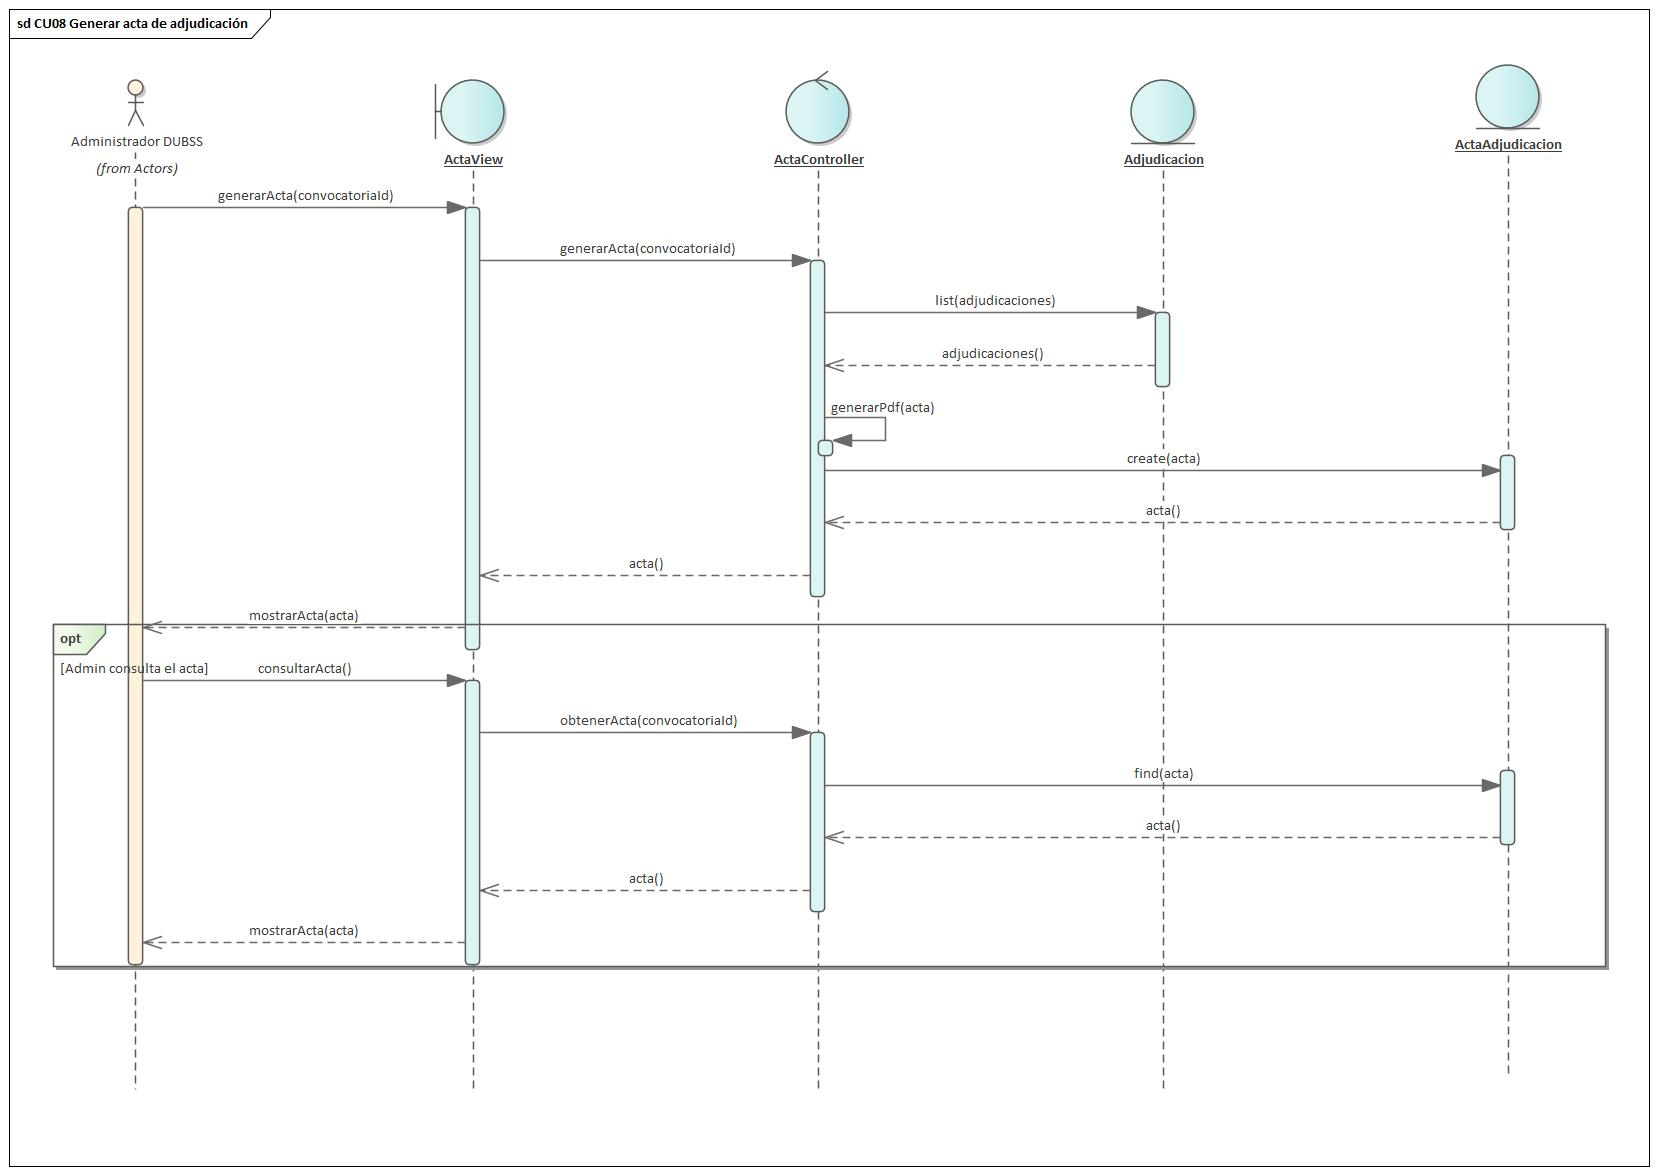
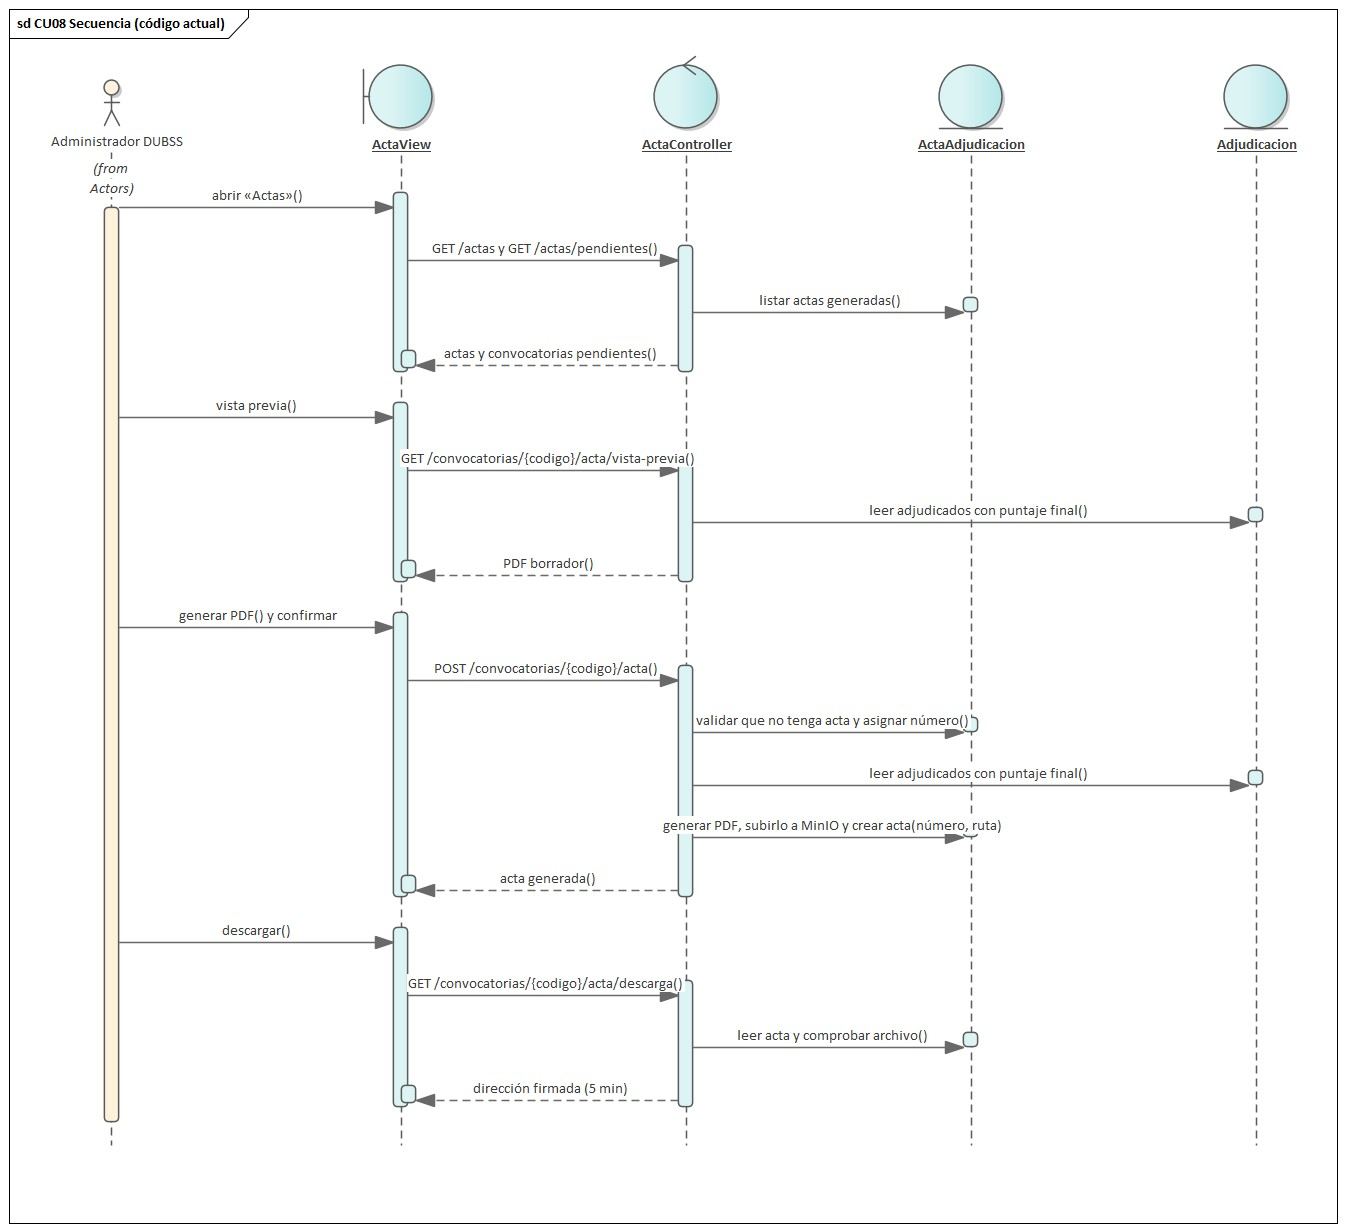
docs[DOCS]: Alinear CU08 y CU22 con el código (acta después de publicar, códigos ERR_ACT y ERR_PUB, análisis y secuencia regenerados)

diff --git a/secciones/07_capitulo5_requisitos/04_detalle_casos_uso.tex b/secciones/07_capitulo5_requisitos/04_detalle_casos_uso.tex
@@ -413,7 +413,7 @@
     \item A2 (paso 7): si el finalista no tiene ninguna auditoría, el sistema no permite ninguna decisión (409, ERR\_ADJ\_02); si la última auditoría no es «validado», no permite adjudicarle la beca (409, ERR\_ADJ\_02) pero sí no adjudicar.
     \item A3 (paso 7): si el puntaje total de la postulación (IA más académico de la última auditoría) no alcanza el puntaje mínimo requerido, el sistema no permite adjudicarle la beca (409, ERR\_ADJ\_03).
     \item A4 (paso 7): si los cupos de la convocatoria están agotados, el sistema no permite registrar nuevas adjudicaciones (409, ERR\_ADJ\_04) y solo admite la decisión de no adjudicar.
-    \item A5 (paso 10): una vez decididas todas las adjudicaciones, el Administrador DUBSS puede generar el acta de adjudicación (CU-08) y publicar los resultados (CU-22).
+    \item A5 (paso 10): una vez decididas todas las adjudicaciones, el Administrador DUBSS puede publicar los resultados (CU-22) y, una vez publicados, generar el acta de adjudicación (CU-08).
     \item A6 (paso 7): si los resultados de la convocatoria ya fueron publicados (CU-22) o la postulación ya no está «calificada», el sistema no registra ni modifica decisiones (409, ERR\_ADJ\_01).
     \item A7 (paso 8): si la petición llega duplicada (doble clic o reintento), solo se registra una decisión; la segunda recibe el 409 ERR\_ADJ\_01, sin clave de idempotencia.
     \item A8 (pasos 1 y 7): si la convocatoria no está cerrada o no tiene cupos o puntaje mínimo definidos, el sistema no permite seleccionar finalistas ni decidir (409, ERR\_ADJ\_05).
@@ -628,7 +628,7 @@
 \endlastfoot
 \textbf{Propósito} & Generar el acta oficial que deja constancia de los resultados de la adjudicación de la Beca Comedor de una convocatoria. \\
 \midrule
-\textbf{Descripción} & Este caso de uso describe cómo el Administrador DUBSS genera, una vez decididas todas las adjudicaciones de una convocatoria, el acta de adjudicación en formato PDF con la lista de beneficiarios aprobados. El acta se almacena en MinIO, se registra con un número único y puede consultarse posteriormente. El formato y el contenido oficial del acta están por definir con la DUBSS. Extiende el CU-05. Respalda el RF-04. \\
+\textbf{Descripción} & Este caso de uso describe cómo el Administrador DUBSS genera, una vez publicados los resultados de una convocatoria (CU-22), el acta de adjudicación en formato PDF con la lista de beneficiarios adjudicados y su puntaje final. Antes de generarla puede ver una vista previa con el número «borrador». El acta se almacena en MinIO, se registra con un número único automático, es definitiva (una sola por convocatoria, no se regenera ni se elimina) y puede consultarse y descargarse después mediante una dirección temporal firmada. El formato y el contenido oficial del acta están por definir con la DUBSS. Extiende el CU-05. Respalda el RF-04. \\
 \midrule
 \textbf{Actores} & Administrador DUBSS. \\
 \midrule
@@ -636,33 +636,36 @@
 \midrule
 \textbf{Precondición} & \vspace{-\baselineskip}\begin{cuvin}
     \item El Administrador DUBSS está autenticado en el sistema (CU-01) con el rol Administrador DUBSS.
-    \item Todas las adjudicaciones de los finalistas de la convocatoria están decididas (CU-05).
+    \item Los resultados de la convocatoria ya fueron publicados (CU-22) y la convocatoria está «publicada».
+    \item Para generar, la convocatoria aún no tiene acta; para consultar o descargar, ya la tiene.
 \end{cuvin} \\
 \midrule
 \textbf{Proceso} & \textbf{Flujo principal A: generar el acta.}
 \begin{cupasos}
-    \item El Administrador DUBSS selecciona la opción «Generar acta de adjudicación» de la convocatoria.
-    \item El sistema verifica que no existan finalistas con la adjudicación pendiente de decisión.
-    \item El sistema obtiene las adjudicaciones de la convocatoria con el nombre, CI, carrera y puntaje final de cada postulante adjudicado.
-    \item El sistema genera el acta en formato PDF con un número único, la fecha, los datos de la convocatoria y de la gestión académica y la lista de adjudicados.
-    \item El sistema almacena el PDF en MinIO y registra el acta con su número, la ruta del archivo, el usuario que la genera y la fecha de generación, y deja constancia en la bitácora.
+    \item El Administrador DUBSS entra a «Actas», elige una convocatoria con resultados publicados y sin acta y, si lo desea, pulsa «Vista previa».
+    \item El Administrador DUBSS pulsa «Generar PDF» y confirma en una ventana que avisa que el acta es definitiva.
+    \item El sistema verifica que la convocatoria exista, que sus resultados estén publicados y que no tenga acta.
+    \item El sistema obtiene los adjudicados de la convocatoria con nombre y apellido, CI, carrera y puntaje final, y asigna el número de acta.
+    \item El sistema genera el PDF con el número, la fecha, los datos de la convocatoria y de la gestión académica y la lista de adjudicados, y lo almacena en MinIO.
+    \item El sistema registra el acta con su número, la ruta del archivo, el usuario que la genera y la fecha de generación, y deja constancia en la bitácora, en una misma operación.
     \item El sistema muestra el acta generada y permite descargarla e imprimirla.
 \end{cupasos} \\
  & \textbf{Flujo principal B: consultar el acta.}
 \begin{cupasos}
-    \item El Administrador DUBSS selecciona la opción «Consultar acta» de la convocatoria.
-    \item El sistema obtiene el acta registrada y la muestra para su descarga e impresión.
+    \item El Administrador DUBSS entra a «Actas» y pulsa «Descargar» en el acta que desea (o elige una convocatoria que ya la tiene).
+    \item El sistema obtiene el acta registrada y comprueba que el archivo esté disponible.
+    \item El sistema anota la descarga en la bitácora y entrega una dirección temporal firmada (vigente 5 minutos) para abrir el PDF.
 \end{cupasos} \\
  & \textbf{Flujos alternativos.}
 \begin{cuvin}
-    \item A1 (flujo A, paso 2): si existen adjudicaciones pendientes de decisión, el sistema no genera el acta e indica cuántas faltan.
-    \item A2 (flujo A, paso 1): si la convocatoria ya tiene un acta generada, el sistema muestra el acta existente en lugar de generar una nueva.
-    \item A3 (flujo A, paso 5): si ocurre un error al almacenar el PDF, el sistema no registra el acta y permite reintentar.
-    \item A4 (flujo B, paso 2): si la convocatoria aún no tiene un acta generada, el sistema lo informa.
+    \item A1 (flujo A, paso 3): si los resultados de la convocatoria no están publicados, el sistema no genera el acta (409, ERR\_ACT\_01) e indica que primero hay que publicarlos (CU-22).
+    \item A2 (flujo A, paso 3): si la convocatoria ya tiene acta, el sistema no genera otra (409, ERR\_ACT\_02) y muestra la existente; un doble clic recibe el mismo 409.
+    \item A3 (flujo A, paso 5): si falla la generación del PDF o el guardado en MinIO, el sistema no registra el acta ni la bitácora y permite reintentar.
+    \item A4 (flujo B, paso 2): si la convocatoria aún no tiene acta, el sistema lo informa (404, ERR\_ACT\_03); si el acta está registrada pero su archivo no está en el almacenamiento, informa que hay que avisar a soporte (404, ERR\_ACT\_04).
 \end{cuvin} \\
 \midrule
 \textbf{Postcondición} & \vspace{-\baselineskip}\begin{cuvin}
-    \item El acta de adjudicación de la convocatoria queda almacenada en MinIO y registrada con su número, responsable y fecha de generación.
+    \item El acta de adjudicación de la convocatoria queda almacenada en MinIO y registrada con su número, responsable y fecha de generación; es definitiva y no se regenera.
     \item La generación del acta queda registrada en la bitácora.
 \end{cuvin} \\
 \midrule
@@ -1773,7 +1776,7 @@
 \endlastfoot
 \textbf{Propósito} & Dar a conocer de forma oficial y transparente los resultados de la adjudicación de la Beca Comedor de una convocatoria y poner fin al proceso de selección. \\
 \midrule
-\textbf{Descripción} & Este caso de uso describe cómo el Administrador DUBSS, una vez decididas todas las adjudicaciones, publica la lista oficial de adjudicados de la convocatoria. Al publicar, el sistema registra la publicación y notifica a cada postulante su resultado mediante notificación push. La lista publicada es consultable por los postulantes y, desde ese momento, las adjudicaciones no se modifican sin dejar registro en la bitácora. Extiende el CU-05. Respalda el RF-17. \\
+\textbf{Descripción} & Este caso de uso describe cómo el Administrador DUBSS, una vez decididas todas las adjudicaciones, publica los resultados de la convocatoria. Al publicar, el sistema registra la publicación, pasa la convocatoria a «publicada», la anota en la bitácora y avisa a cada finalista con decisión su resultado por bandeja, notificación push y correo (CU-EXTRA-01). La publicación no se puede deshacer, no exige el acta (que se genera después, CU-08) y desde ese momento no se registran ni modifican decisiones. Los postulantes consultan la lista de adjudicados y su propio resultado. Extiende el CU-05. Respalda el RF-17. \\
 \midrule
 \textbf{Actores} & Administrador DUBSS. \\
 \midrule
@@ -1781,39 +1784,40 @@
 \midrule
 \textbf{Precondición} & \vspace{-\baselineskip}\begin{cuvin}
     \item El Administrador DUBSS está autenticado en el sistema (CU-01) con el rol Administrador DUBSS.
-    \item Todas las adjudicaciones de los finalistas de la convocatoria están decididas (CU-05).
+    \item La convocatoria está cerrada y ningún finalista queda en estado «calificada»: cada uno está adjudicado, no adjudicado, archivado o devuelto (CU-05).
     \item Los resultados de la convocatoria no han sido publicados previamente.
 \end{cuvin} \\
 \midrule
 \textbf{Proceso} & \textbf{Flujo principal.}
 \begin{cupasos}
-    \item El Administrador DUBSS selecciona la opción «Publicar resultados» de la convocatoria.
-    \item El sistema obtiene y muestra las adjudicaciones de la convocatoria (adjudicados y no adjudicados) con el puntaje final de cada postulante.
-    \item El Administrador DUBSS revisa los resultados y confirma la publicación.
-    \item El sistema verifica que no existan adjudicaciones pendientes de decisión.
-    \item El sistema registra la publicación con el usuario que la realiza y la fecha, y deja constancia en la bitácora.
-    \item El sistema crea una notificación para cada postulante finalista con su resultado y le envía una notificación push.
+    \item El Administrador DUBSS selecciona la opción «Publicar resultados» y elige la convocatoria.
+    \item El sistema muestra el resumen: adjudicados y no adjudicados con el puntaje final de cada finalista.
+    \item El Administrador DUBSS revisa los resultados, pulsa «Publicar» y confirma en una ventana que avisa que la publicación no se puede deshacer.
+    \item El sistema verifica que la convocatoria exista y esté cerrada, que no esté publicada y que no queden finalistas en estado «calificada».
+    \item El sistema registra la publicación con el usuario que la realiza y la fecha, la anota en la bitácora y pasa la convocatoria a «publicada», en una misma operación.
+    \item El sistema crea un aviso para cada finalista con decisión y se lo envía por bandeja, notificación push y correo.
     \item El sistema confirma la publicación; la lista de adjudicados queda consultable por los postulantes (CU-04).
 \end{cupasos} \\
  & \textbf{Flujos alternativos.}
 \begin{cuvin}
-    \item A1 (paso 4): si existen adjudicaciones pendientes de decisión, el sistema no permite publicar e indica cuántas faltan.
-    \item A2 (paso 1): si los resultados de la convocatoria ya fueron publicados, el sistema no permite una nueva publicación y muestra la existente.
-    \item A3 (paso 6): si falla el envío de alguna notificación push, la notificación queda registrada y el postulante puede ver su resultado al consultar su postulación (CU-04).
-    \item A4 (paso 3): si el Administrador DUBSS cancela la operación, no se publica ningún resultado.
+    \item A1 (paso 4): si quedan finalistas en estado «calificada», el sistema no permite publicar e indica cuántos faltan (409, ERR\_PUB\_01).
+    \item A2 (pasos 1 y 4): si los resultados ya fueron publicados, el sistema no registra otra publicación y muestra la existente (409, ERR\_PUB\_02); un doble clic recibe el mismo 409.
+    \item A3 (paso 4): si la convocatoria no existe (404, ERR\_PRI\_01) o no está cerrada (409, ERR\_PUB\_03), el sistema vuelve a la lista de convocatorias.
+    \item A4 (paso 6): si falla el envío de un aviso, la publicación queda registrada, el aviso queda en la bandeja y se reintenta el push y el correo; un fallo de envío nunca deshace la publicación.
+    \item A5 (paso 3): si el Administrador DUBSS cancela la operación, no se publica ningún resultado.
 \end{cuvin} \\
 \midrule
 \textbf{Postcondición} & \vspace{-\baselineskip}\begin{cuvin}
     \item Los resultados de la convocatoria quedan publicados y registrados con su responsable y fecha.
-    \item Cada postulante finalista es notificado de su resultado y los adjudicados conforman el padrón de becados de la gestión (CU-23).
-    \item Las adjudicaciones de la convocatoria no se modifican sin dejar registro en la bitácora (CU-25).
+    \item Cada finalista con decisión recibe un aviso con su resultado; los adjudicados son el punto de partida del padrón de becados (CU-23).
+    \item No se registran ni modifican decisiones de la convocatoria, y la publicación queda anotada en la bitácora (CU-25).
 \end{cuvin} \\
 \midrule
 \textbf{Excepciones} & \vspace{-\baselineskip}\begin{cuvin}
     \item Autenticación inválida o sesión expirada.
     \item Falta de permisos suficientes (el usuario no tiene el rol Administrador DUBSS).
-    \item Adjudicaciones pendientes de decisión.
-    \item Error al enviar las notificaciones push mediante Firebase Cloud Messaging.
+    \item Finalistas pendientes de decisión.
+    \item Error al enviar el push o el correo (no deshace la publicación).
     \item Error de conexión con el servidor o la base de datos.
 \end{cuvin} \\
 \end{longtable}

diff --git a/secciones/08_capitulo6_analisis/02_analisis_casos_uso.tex b/secciones/08_capitulo6_analisis/02_analisis_casos_uso.tex
@@ -130,7 +130,7 @@ Al ver el expediente (mensaje 1), el controlador obtiene el finalista (1.2) y la
 
 \subsubsection{6.2.8. Analizar CU-08 Generar acta de adjudicación}\label{sec:cap6_analisis_cu08}
 
-En el CU-08, el Administrador DUBSS genera el acta mediante \textit{ActaView} y \textit{ActaController}, que utiliza las entidades \textit{Adjudicacion} y \textit{ActaAdjudicacion}. La generación del documento PDF se modela como un mensaje del propio controlador (1.3). La Figura~\ref{fig:analisis_cu08} presenta el diagrama de análisis.
+En el CU-08, el Administrador DUBSS genera el acta mediante \textit{ActaView} y \textit{ActaController}, que utiliza las entidades \textit{Adjudicacion} y \textit{ActaAdjudicacion}. El controlador lista las actas generadas, arma la vista previa y el acta con los adjudicados y su puntaje final, y entrega la descarga; la generación del PDF y su almacenamiento en MinIO se resuelven dentro de la creación del acta (mensaje 3.3), y el acta solo se genera con los resultados ya publicados (CU-22). La Figura~\ref{fig:analisis_cu08} presenta el diagrama de análisis.
 
 \begin{figure}[H]
 \caption{Análisis del CU-08 Generar acta de adjudicación}
@@ -368,7 +368,7 @@ El Administrador puede listar los finalistas (mensaje 1), notificarlos con el pl
 
 \subsubsection{6.2.22. Analizar CU-22 Publicar resultados de adjudicación}\label{sec:cap6_analisis_cu22}
 
-En el CU-22, el Administrador DUBSS publica los resultados mediante \textit{PublicarResultadosView} y \textit{ResultadosController}, que colaboran con las entidades \textit{Adjudicacion}, \textit{PublicacionResultado} y \textit{Notificacion}. El envío de las notificaciones push se modela como un mensaje del propio controlador (2.4). La Figura~\ref{fig:analisis_cu22} presenta el diagrama de análisis.
+En el CU-22, el Administrador DUBSS publica los resultados mediante \textit{PublicarResultadosView} y \textit{ResultadosController}, que colaboran con las entidades \textit{Adjudicacion}, \textit{PublicacionResultado} y \textit{Notificacion}. El controlador muestra el resumen de resultados y, al publicar, valida que no queden finalistas «calificada», registra la publicación (2.3) y crea un aviso por finalista con decisión (2.5); el envío del push y del correo sale después de guardar, a cargo del CU-EXTRA-01. La Figura~\ref{fig:analisis_cu22} presenta el diagrama de análisis.
 
 \begin{figure}[H]
 \caption{Análisis del CU-22 Publicar resultados de adjudicación}
